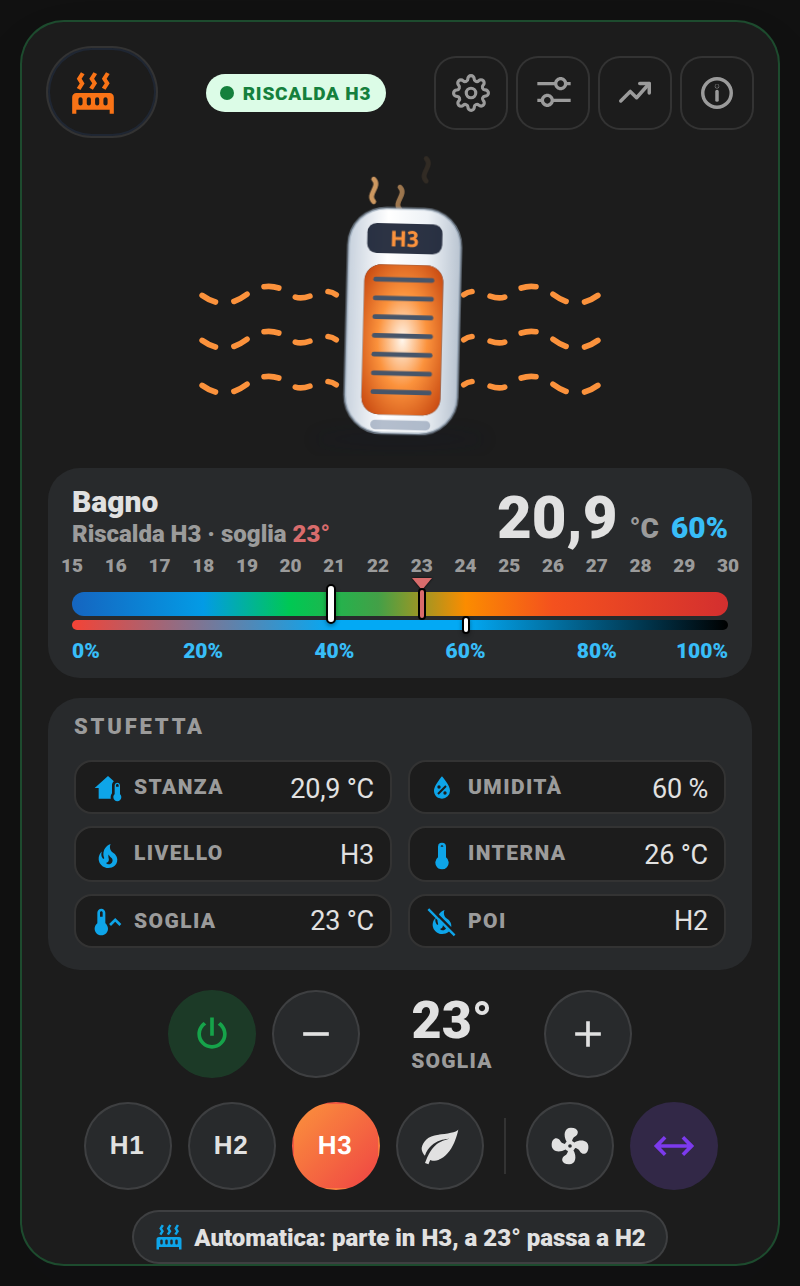
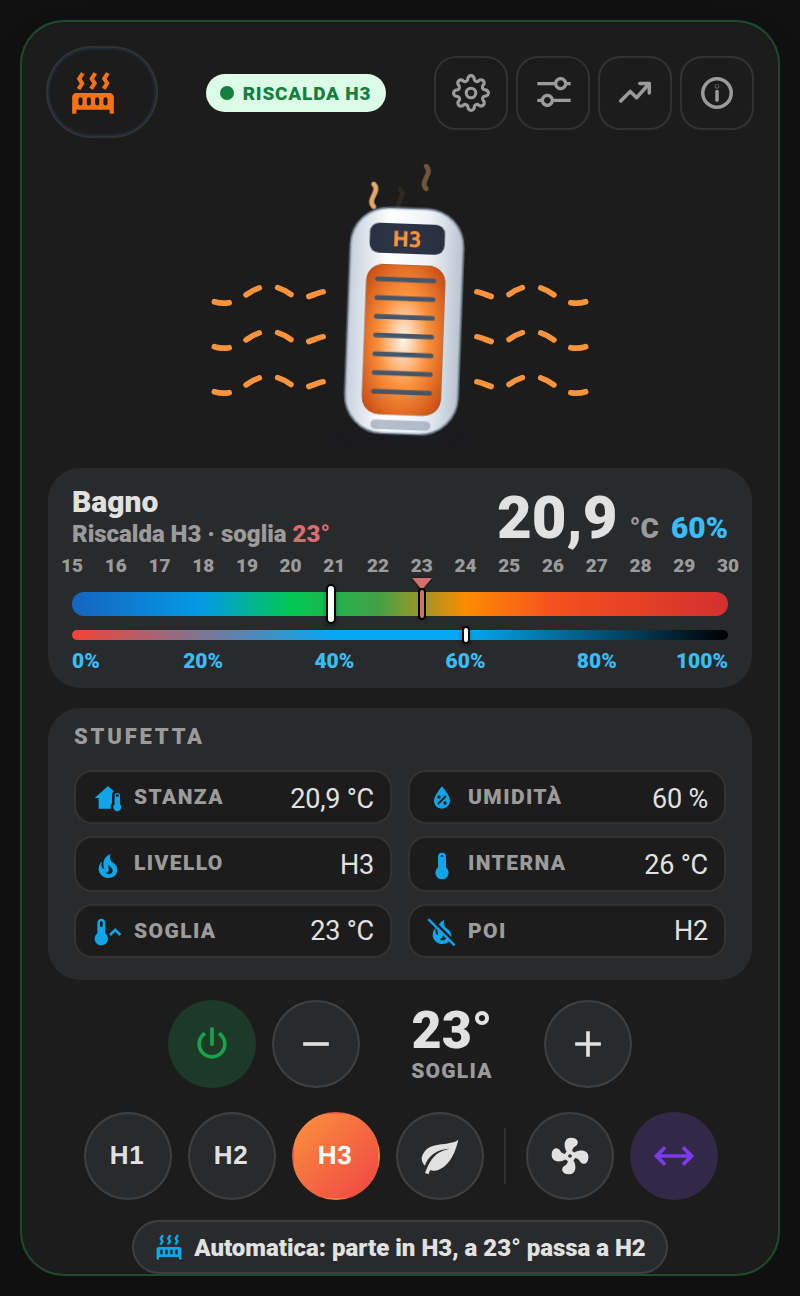
1.11.1: barre staccate su clima e stufetta, aria del clima legata alla potenza, nota immagini animate

diff --git a/smart-home-cards.js b/smart-home-cards.js
@@ -8745,9 +8745,9 @@ const CL_STYLE = `
 .shc-ap-card.cl-heat .shc-cl-air{color:#fb923c}
 .shc-ap-card.cl-dry .shc-cl-air{color:#22d3ee}
 .shc-ap-card.cl-fan .shc-cl-air{color:#94a3b8}
-.shc-ap-card.is-run:not(.cl-idle) .shc-cl-air{opacity:1}
-.shc-ap-card.is-run:not(.cl-idle) .shc-cl-air path{animation:shc-cl-flow 1.1s linear infinite}
-.shc-ap-card.is-run:not(.cl-idle) .shc-cl-air circle{animation:shc-cl-drift 2.2s ease-in infinite}
+.shc-ap-card.is-run:not(.cl-idle) .shc-cl-air{opacity:var(--cl-air-op,1)}
+.shc-ap-card.is-run:not(.cl-idle) .shc-cl-air path{animation:shc-cl-flow var(--cl-air-dur,1.1s) linear infinite}
+.shc-ap-card.is-run:not(.cl-idle) .shc-cl-air circle{animation:shc-cl-drift calc(var(--cl-air-dur,1.1s) * 2) ease-in infinite}
 .shc-ap-card.is-run.cl-idle .shc-cl-air{opacity:.25}
 .shc-cl-led{fill:#94a3b8}
 .shc-ap-card.is-run .shc-cl-led{fill:#22c55e}
@@ -9043,6 +9043,8 @@ class ShcClimateCard extends HTMLElement {
     q(".shc-cl-lbar.inner").style.background = grad(cfg.humidity_segments || CL_HUM_SEGMENTS, 0, 100);
     // etichette nel punto esatto del valore, allineate a lancette e cursori
     shcDegTicks(q(".shc-cl-scale.t"), min, max, Number(cfg.scale_step) || 1);
+    // barra dell'umidita' staccata da quella della temperatura (bar_gap: false per attaccarle)
+    q(".shc-cl-track").classList.toggle("sep", cfg.bar_gap !== false);
     q(".shc-cl-scale.h").innerHTML = [0, 20, 40, 60, 80, 100].map((h) => `<span style="left:${h}%">${h}%</span>`).join("");
     q(".cl-l-room").textContent = cfg.room_name || cfg.name;
   }
@@ -9243,8 +9245,16 @@ class ShcClimateCard extends HTMLElement {
     card.classList.remove("is-run", "is-standby", "is-off", "is-unavailable", "has-alarm", "cl-heat", "cl-cool", "cl-off", "cl-dry", "cl-fan", "cl-idle");
     card.classList.add(unav ? "is-unavailable" : mode === "off" ? "is-off" : "is-run");
     card.classList.add(mode === "heat" ? "cl-heat" : mode === "off" || unav ? "cl-off" : mode === "dry" ? "cl-dry" : mode === "fan_only" ? "cl-fan" : "cl-cool");
-    // compressore fermo (temperatura raggiunta): aria quasi ferma
-    if (["idle", "off"].includes(a.hvac_action)) card.classList.add("cl-idle");
+    // compressore fermo (temperatura raggiunta): aria quasi ferma. Molte
+    // integrazioni (es. Daikin Onecta) non danno hvac_action: allora decide la
+    // potenza della presa, e l'aria rallenta e sbiadisce quando l'inverter modula.
+    const airW = this._val(cfg.power_entity);
+    const pwIdle = !a.hvac_action && airW !== null && airW < (Number(cfg.idle_power) || 60);
+    const idle = ["idle", "off"].includes(a.hvac_action) || pwIdle;
+    if (idle) card.classList.add("cl-idle");
+    const ratio = airW !== null && airW > 0 ? Math.min(1, Math.max(0.15, airW / (Number(cfg.max_power) || 1500))) : null;
+    card.style.setProperty("--cl-air-dur", ratio !== null ? `${(0.9 + 1.6 * (1 - ratio)).toFixed(2)}s` : "1.1s");
+    card.style.setProperty("--cl-air-op", ratio !== null ? (0.45 + 0.55 * ratio).toFixed(2) : "1");
     const errors = (cfg.diagnostics || []).filter((d) => d.alarm && this._hass.states[d.entity]?.state === "on");
     if (errors.length) card.classList.add("has-alarm");
 
@@ -9256,7 +9266,7 @@ class ShcClimateCard extends HTMLElement {
       ? "OFFLINE"
       : mode === "off"
         ? "SPENTO"
-        : (action === "idle" ? "IN PAUSA" : (CL_MODES[mode]?.label || mode).toUpperCase());
+        : (action === "idle" || pwIdle ? "IN PAUSA" : (CL_MODES[mode]?.label || mode).toUpperCase());
 
     const room = cfg.temperature_entity ? this._val(cfg.temperature_entity) : Number.isFinite(Number(a.current_temperature)) ? Number(a.current_temperature) : null;
     const target = Number(a.temperature);
@@ -10144,6 +10154,7 @@ class ShcHeaterCard extends ShcDeviceCardBase {
       </article>`;
     this._root.querySelector(".shc-ap-name").textContent = this._config.name;
     this._lineBuild(HT_SEGMENTS);
+    this._root.querySelector(".shc-cl-track").classList.toggle("sep", this._config.bar_gap !== false);
     const bind = this._commonBind();
     bind(".shc-ap-settings", () => this._openAuto());
     bind(".shc-cl-sched", () => this._openAuto());

diff --git a/docs/clima.md b/docs/clima.md
@@ -14,6 +14,8 @@ Il climatizzatore in una card sola, con la stessa grafica delle altre: in alto l
 
 Prima il mio climatizzatore era una pila di card diverse: una markdown per il titolo, la gauge, sette `button-card` per i comandi, una card entità per la programmazione, tutto incollato con `card_mod`. Funzionava, ma era lunga da copiare e da mantenere. Qui c'è tutto in un unico blocco, con un editor visuale. La gauge dritta usa la stessa scala e gli stessi colori della gauge che avevo, ma si legge al volo e non serve nessuna card esterna. Chi preferisce la gauge rotonda la può ancora avere (vedi `hero: gauge` più sotto).
 
+> 🎞 **Le immagini sono animate**, come una GIF: si muovono e cambiano colore in base a temperatura, modalità e livello. Le schermate qui sotto sono foto ferme di un istante.
+
 ## Cosa mostra
 
 - **Split animato** (in alto): l'aria esce dal climatizzatore quando lavora. Colore per modalità: **blu** raffresca, **arancio** riscalda, **azzurro** deumidifica, **grigio** ventilazione. Quando la stanza ha raggiunto la temperatura (compressore in pausa) l'aria resta tenue; da spento lo split è grigio e fermo. Sul display dello split c'è la temperatura impostata, oppure `OFF`. Toccandolo si apre la scheda del climatizzatore di Home Assistant.
@@ -147,6 +149,8 @@ segments:
 | `layout` | No | `centrato` | `centrato` o `classico` (split e gauge a sinistra, dati a destra) |
 | `min` / `max` | No | `18` / `32` | Scala della temperatura |
 | `scale_step` | No | `1` | Ogni quanti gradi un numero sulla scala (es. `2`) |
+| `bar_gap` | No | `true` | Barra dell'umidità staccata da quella della temperatura; `false` per attaccarle |
+| `idle_power` | No | `60` | Se il clima non dice se il compressore è fermo (es. Daikin Onecta), sotto questi W la card mostra "In pausa"; più la potenza è bassa, più l'aria animata rallenta |
 | `segments` | No | blu → verde → rosso | Colori della scala temperatura: elenco `{from, color}` |
 | `humidity_segments` | No | rosso → azzurro → nero | Colori della barra umidità (0–100): elenco `{from, color}` |
 | `temperature_entity` | No | — | Sensore temperatura stanza: serve per il grafico (senza, la card usa la temperatura del climatizzatore) |

diff --git a/docs/stufetta.md b/docs/stufetta.md
@@ -8,6 +8,8 @@ La stufetta elettrica in una card sola, nello stesso stile della [card Climatizz
 
 > **Esempio reale**: io la uso con una **Dreo 314S (DR-HSH004S)** in bagno, integrata con l'integrazione [Dreo](https://github.com/jeffsteinbok/hass-dreo) di HACS. La card però funziona con **qualsiasi stufetta o termoventilatore** che in Home Assistant sia un'entità `climate.`: legge da sola le modalità (riscalda, solo ventilazione, spento) e i livelli (preset) che espone. Con altre marche cambiano solo i nomi dei livelli.
 
+> 🎞 **Le immagini sono animate**, come una GIF: si muovono e cambiano colore in base a temperatura, modalità e livello. Le schermate qui sotto sono foto ferme di un istante.
+
 ## Cosa mostra
 
 - **Stufetta animata**: griglia arancione e onde di calore quando scalda (1 fila in H1/Eco, 2 in H2, 3 in H3), onde azzurre in sola ventilazione, grigia da spenta. Se l'oscillazione è attiva, la stufetta ondeggia. Sul display c'è il livello (H1, H2, H3, Eco), `FAN` oppure `OFF`.
@@ -91,6 +93,7 @@ diagnostics:
 | `diagnostics` | — | Automazioni/sensori nel popup Stato (`entity`, `name`, `alarm`) |
 | `min`, `max` | 15, 30 | Scala della gauge |
 | `scale_step` | 1 | Ogni quanti gradi un numero sulla scala (es. `2`) |
+| `bar_gap` | `true` | Barra dell'umidità staccata da quella della temperatura; `false` per attaccarle |
 | `segments`, `humidity_segments` | colori pronti | Colori della scala, come nel [Climatizzatore](clima.md) |
 | `hide_when_offline` | `false` | Nascondi se scollegata, vedi sotto |
 | `layout_entity` | — | Menu layout classico/centrato, vedi [layout.md](layout.md) |

diff --git a/CHANGELOG.md b/CHANGELOG.md
@@ -1,5 +1,11 @@
 # Changelog
 
+## 2026-10-25 (9) — 1.11.1: barre staccate anche su Climatizzatore e Stufetta
+
+- **Climatizzatore e Stufetta**: la barra dell'umidità è staccata di qualche pixel da quella della temperatura, come nella Caldaia: si legge meglio (opzione `bar_gap: false` per attaccarle).
+- **Climatizzatore**: l'aria animata segue la **potenza** della presa: rallenta e sbiadisce quando l'inverter modula, e sotto `idle_power` (60 W) la card mostra "In pausa". Utile con le integrazioni che non dicono se il compressore è fermo (es. Daikin Onecta).
+- Guide: specificato che le immagini dei dispositivi sono animate (si muovono come una GIF e cambiano colore in base a temperatura, stato e livello).
+
 ## 2026-10-25 (8) — 1.11.0: comandi a distanza per gli elettrodomestici, scale più fitte
 
 - **Elettrodomestici, comandi a distanza** (nuovo campo `controls`, facoltativo): riquadro **Comandi** sotto il riepilogo con Avvia, Stop (doppio tocco per sicurezza), Accendi/Spegni e il popup **Programmi** con programmi, opzioni e avvio ritardato (Subito…8 h). Pensato per Home Connect (esempio reale: lavastoviglie Bosch, nomi dei programmi in italiano); con `machine_select` anche Avvia/Pausa/Riprendi/Stop per gli elettrodomestici SmartThings che li accettano. Se il controllo remoto è spento sulla macchina, i pulsanti si disattivano e la card spiega cosa fare. Guida: [docs/elettrodomestici.md](docs/elettrodomestici.md), sezione "Comandi a distanza".

diff --git a/docs/caldaia.md b/docs/caldaia.md
@@ -8,6 +8,8 @@ La caldaia a gas in una card sola, nello stesso stile della [card Climatizzatore
 
 > **Esempio reale**: io la uso con una caldaia **Baxi Luna Classic** con termostato smart Baxi (piattaforma Remeha, modello RU2), integrata con [Remeha Home](https://github.com/msvisser/remeha_home) da HACS. La card però funziona con **qualsiasi caldaia o termostato** che in Home Assistant sia un'entità `climate.` (Netatmo, tado°, Honeywell, Viessmann…). Pressione, acqua calda, programmi orari, modalità camino e consumi sono facoltativi: se non li hai, quelle parti non compaiono.
 
+> 🎞 **Le immagini sono animate**, come una GIF: si muovono e cambiano colore in base a temperatura, modalità e livello. Le schermate qui sotto sono foto ferme di un istante.
+
 ## Cosa mostra
 
 - **Caldaia animata**: fiamma accesa e tremolante quando lavora; quando scalda la casa i tubi diventano rosso (mandata) e blu (ritorno) e il calorifero si colora di arancione con il calore che sale; quando fa acqua calda scendono le gocce dal rubinetto. Sul display la temperatura impostata oppure `OFF`.

diff --git a/docs/elettrodomestici.md b/docs/elettrodomestici.md
@@ -10,6 +10,9 @@ Una card, sei "disegni" diversi: lavastoviglie, lavatrice, asciugatrice, forno, 
 | **Forno** | ![Forno](screenshot/elettrodomestici-forno.png) | ![Forno scuro](screenshot/elettrodomestici-forno-dark.png) |
 | **TV** | ![TV](screenshot/elettrodomestici-tv.png) | ![TV scuro](screenshot/elettrodomestici-tv-dark.png) |
 
+
+> 🎞 **Le immagini degli elettrodomestici sono animate**, come una GIF: il cestello gira, l'acqua si muove e i colori cambiano in base allo stato (in funzione, in pausa, finito). Le schermate sono foto ferme di un istante.
+
 ## Cosa ti serve prima di iniziare
 
 Un modo per misurare quanti **Watt** sta assorbendo l'elettrodomestico in questo momento — cioè una presa intelligente con misurazione di potenza (Shelly Plug S, Sonoff S31/POWR3, TP-Link Kasa KP115, ecc.) collegata via qualsiasi integrazione HA, oppure un misuratore di potenza per elettrodomestici già cablati (es. un contatore su una linea dedicata). Da lì in poi Home Assistant deve esporre un `sensor` in Watt: quello è il `power_entity`, l'unico campo obbligatorio.

diff --git a/docs/ventilatore.md b/docs/ventilatore.md
@@ -8,6 +8,8 @@ Il ventilatore in una card sola, nello stesso stile della [card Climatizzatore](
 
 > **Esempio reale**: io la uso con un **Dreo DR-HEC005S**, ventilatore con nebulizzatore, luce ambientale e sensori di temperatura e umidità, integrato con l'integrazione [Dreo](https://github.com/jeffsteinbok/hass-dreo) di HACS. La card però funziona con **qualsiasi ventilatore** che in Home Assistant sia un'entità `fan.`: velocità, modalità (preset) e oscillazione le legge dall'entità stessa. Nebbia, luce, serbatoio e pulizia sono facoltativi: se il tuo ventilatore non li ha, quelle righe e quei pulsanti non compaiono.
 
+> 🎞 **Le immagini sono animate**, come una GIF: si muovono e cambiano colore in base a temperatura, modalità e livello. Le schermate qui sotto sono foto ferme di un istante.
+
 ## Cosa mostra
 
 - **Ventilatore animato**: pale ferme da spento, sempre più veloci con la velocità; testa che oscilla se l'oscillazione è attiva; particelle di nebbia se il nebulizzatore è acceso; luce colorata alla base.

diff --git a/README.md b/README.md
@@ -8,6 +8,8 @@ Card Lovelace personalizzate per Home Assistant, pensate per essere "belle e com
 
 > Autore: [Simonz82](https://github.com/Simonz82) — usate liberamente, adattate, migliorate. Se personalizzate qualcosa e vi sembra utile agli altri, una Pull Request è benvenuta.
 
+> 🎞 Le immagini dei dispositivi (elettrodomestici, climatizzatore, stufetta, ventilatore, caldaia) sono **animate**, come una GIF: si muovono e cambiano colore in base a temperatura, stato e livello. Le schermate nelle guide sono foto ferme di un istante.
+
 ## Indice
 
 | Card | Cosa mostra | Serve per |
